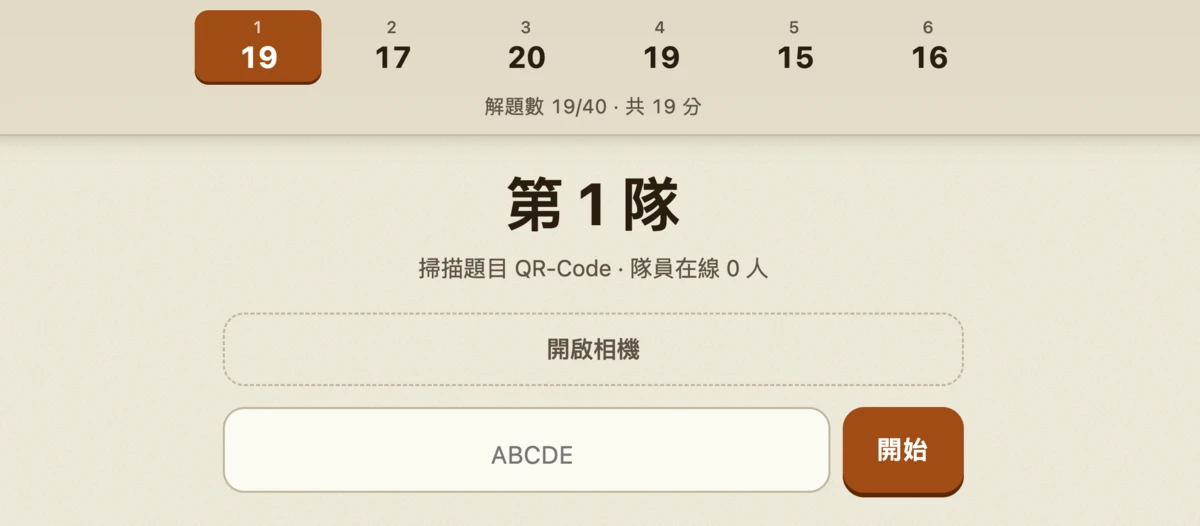
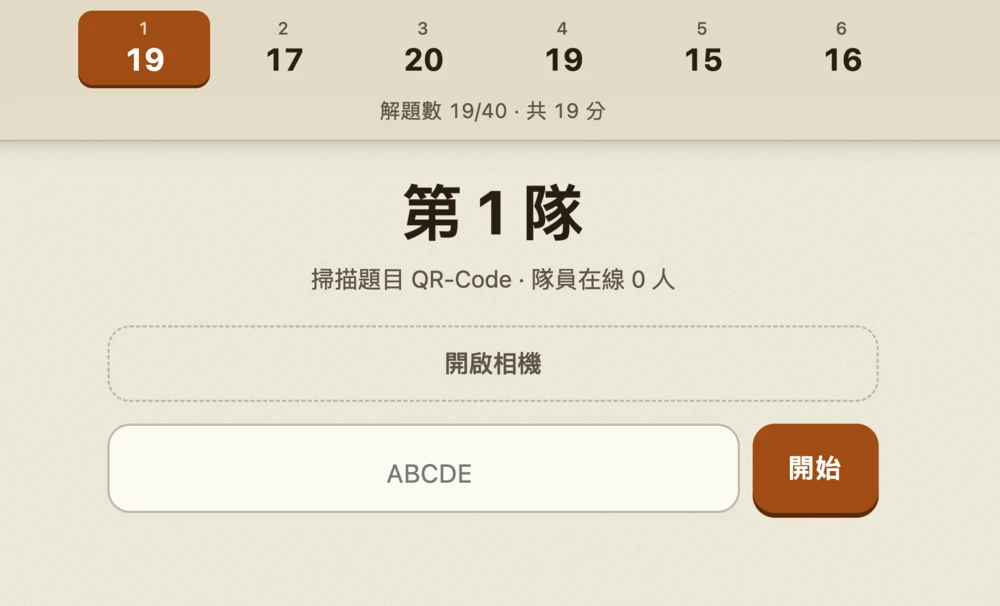
docs: tighten the README and mirror it in English
- adopt the shortened Chinese README
- recrop the hero screenshot, dropping the empty space below the form
- fix the swapped frontend/backend labels in the test section
- promote the game reset back to a top-level section

diff --git a/README-en.md b/README-en.md
@@ -16,28 +16,17 @@
 
 ## Overview
 
-Front and back end for the NTUST campus treasure hunt. Questions are printed as QR codes
-and taped around campus. Each team has one leader; members vote on their own phones and
-the leader decides what gets submitted.
-
-```
-Leader scans a question QR ─▶ the question appears on every phone in the team
-                              members pick a choice (changeable, last one counts)
-                              only the leader sees the tally and the voter count
-Leader hits submit         ─▶ the top choice is submitted, tally and answer go public
-Leader hits next           ─▶ the whole team goes back to waiting
-```
+Front and back end for the NTUST CSIE campus treasure hunt. Find the QR codes hidden around campus and solve the puzzles together with your leader and teammates
 
 ### Rules
 
-- The leader can discard a question at any time: all votes are thrown away, nothing is recorded
-- On a tie, submit is locked until the leader picks one. With zero votes it stays locked too
-- One submission per team per question. Rescanning an answered question shows a read-only result
-- The leader does not vote
+- The leader is a neutral referee: they scan questions, can end a round, and on a tie talk it through with the members to reach a final consensus
+- One submission per team per question
+- Only members can vote
 
 <br/>
 
-## Getting started
+## Getting Started
 
 ### Requirements
 
@@ -45,7 +34,7 @@ Leader hits next           ─▶ the whole team goes back to waiting
 - [uv](https://docs.astral.sh/uv/)
 - Node (only for the frontend tests)
 
-### Run it
+### Run It
 
 ```bash
 git clone https://github.com/xinshoutw/campus-treasure.git
@@ -55,19 +44,9 @@ uv sync
 uv run main.py
 ```
 
-Startup does three things, and refuses to start if any of them fails, so a broken question
-set never makes it to the event:
-
-1. Validates `.env` (6 leader keys, 6 member keys, all 12 distinct)
-2. Validates `questions.yaml` (id format and uniqueness, `answer` must be one of `choices`, 2-10 choices, positive `points`, no misspelled keys)
-3. Downloads every remote `image` into `static/cache/`, so the frontend only ever loads local files
-
-nginx reverse-proxies to `HOST:PORT` (`192.168.10.101:20001` by default). TLS is your job.
-
-> [!IMPORTANT]
-> **The camera only works over HTTPS or on localhost.** Hitting
-> `http://192.168.10.101:20001` straight from a phone gets you no camera. Everyone has to
-> go through your `https://treasure.ntust.org`.
+1. Validates `.env` (token uniqueness)
+2. Validates `questions.yaml` (id format and uniqueness, `answer` must be one of `choices`, 2-10 choices, positive `points`, correct field names)
+3. Caches the remote images in `image` into `static/cache/`
 
 <br/>
 
@@ -75,21 +54,21 @@ nginx reverse-proxies to `HOST:PORT` (`192.168.10.101:20001` by default). TLS is
 
 `.env`:
 
-| Key | What it does |
+| Key | Description |
 |---|---|
-| `MEMBER_KEY` | **Member** tokens, `;` separated. **Position is the team number** (formerly `TEAM_KEY`) |
-| `LEADER_KEY` | **Leader** tokens, same order, same count |
-| `RANDOM_CHOICES` | Shuffle the choice order when a question opens |
-| `SHOW_SCORES_IN_MENU` | Show the per-team score bar at the top |
-| `RESET_TOKEN` | Token for wiping the event. **Leave it empty and `/reset` is disabled entirely** |
+| `MEMBER_KEY` | **Member** tokens, `;` separated, same count as `LEADER_KEY` |
+| `LEADER_KEY` | **Leader** tokens, `;` separated, same count as `MEMBER_KEY` |
+| `RANDOM_CHOICES` | Whether to randomize choice order |
+| `SHOW_SCORES_IN_MENU` | Whether to show every team's score publicly |
+| `RESET_TOKEN` | Resets the game. **Leave empty to disable** |
 | `HOST` / `PORT` | Listen address |
-| `SITE_URL` | Base URL `make_qr.py` bakes into the login QR codes |
+| `SITE_URL` | Domain `make_qr.py` uses for the login QR codes |
 
 The `questions.yaml` fields are documented at the top of that file.
 
 <br/>
 
-## Generating QR codes
+## Generating QR Codes
 
 ```bash
 uv run make_qr.py          # one PNG per QR
@@ -102,20 +81,8 @@ Output lands in `qr/`:
 |---|---|---|
 | `leader_1.png` … `leader_6.png` | **Leader** login | `LEADER n` |
 | `member_1.png` … `member_6.png` | **Member** login | `TEAM n` |
-| `ABCDE.png` … | Questions, encoding the five-letter code; only leaders can scan them | the code itself |
-| `qrcodes.pdf` | `--pdf` output. The QR codes are vector, so printing large stays crisp | — |
-
-> [!WARNING]
-> **Do not let the leader stack get mixed into the member stack.** Whoever holds a leader QR
-> can submit on behalf of the whole team. Leader tokens are not device-limited, which is
-> deliberate: when the leader's phone dies, a deputy scans the same sheet and takes over.
-
-Always use `segno.make_qr()`, **never `segno.make()`**. Given payloads as short as five
-characters the latter picks a Micro QR (`M2-M`, a single finder pattern), and jsQR does not
-support Micro QR, so the printed code is completely unscannable.
-
-Labels on the PDF are deliberately ASCII-only (`TEAM 1`, `ABCDE`) so no CJK font has to be
-embedded. For which sticker belongs to which question, read the mapping the script prints.
+| `ABCDE.png` … | Hunt questions, five-letter code | ABCDE |
+| `qrcodes.pdf` | `--pdf` output, vector | — |
 
 <br/>
 
@@ -123,18 +90,8 @@ embedded. For which sticker belongs to which question, read the mapping the scri
 
 ```bash
 uv run test_main.py    # backend
-node test_web.cjs      # frontend (boots its own server)
+node test_web.cjs      # frontend
 ```
-
-Neither uses a test framework, just `assert`, and neither touches `.env` or the real
-`data.json`.
-
-- `test_main.py` — question validation, roles and permissions, voting and re-voting, ties
-  and zero votes, discarding, rescanning an answered question, two leaders submitting at
-  once, online-count timeout, `/reset` backup
-- `test_web.cjs` — the real `static/app.js` running inside a minimal DOM stub in Node,
-  against a server that actually boots. Each simulated phone is its own vm context, so
-  "one leader plus three members" really is four clients talking to each other
 
 <br/>
 
@@ -143,9 +100,9 @@ Neither uses a test framework, just `assert`, and neither touches `.env` or the 
 | Piece | Choice |
 |---|---|
 | Backend | Flask 3 and waitress, single process, 8 threads |
-| Frontend | Plain JS. No framework, no build step |
-| State | Open rounds live in memory; submitted answers go to `data.json` |
-| QR decoding | Vendored jsQR, no CDN |
+| Frontend | Plain JS |
+| State | Open rounds in memory; submitted results in `data.json` |
+| QR decoding | vendored jsQR |
 | QR generation | segno and fpdf2 |
 | Packaging | uv |
 
@@ -156,7 +113,7 @@ main.py                config and question validation, state machine, API, data.
 make_qr.py             login and question QR codes (PNG or A4 PDF)
 questions.yaml         question bank, fields documented at the top
 templates/index.html   single page, all four screens toggled with hidden
-static/app.js          the whole frontend: login, camera, polling, voting, submitting
+static/app.js          frontend: login, camera, polling, voting, submitting
 static/style.css       design tokens and layout
 static/jsQR.js         vendored QR decoder, minified
 static/cache/          question images downloaded at startup (gitignored)
@@ -168,85 +125,13 @@ data.json              answer log, created at runtime (gitignored)
 
 <br/>
 
-## Design notes
-
-- Single process (waitress, 8 threads). **Do not run multiple workers**: the in-memory state
-  splits and scores overwrite each other. Starting without going through `main.py`'s
-  `__main__` (say, `gunicorn main:app`) makes every request return 503 rather than quietly
-  flushing empty state over `data.json`.
-- The frontend polls `/api/state` every **300ms**; the server decides everything on screen.
-  No SSE or WebSocket: each long-lived connection pins a waitress thread, and 40 devices is
-  far past 8. Measured (6 teams x 12 questions all answered, score bar on, choice shuffling
-  on): 42 devices at 42 req/s gave p50 1.2ms / p99 37ms, 96 devices at 95 req/s gave p50
-  1.6ms. What 300ms costs is member mobile data, roughly 3MB per device per hour
-  (272 B per gzipped response).
-- **Do not turn on the Cloudflare proxy.** Measured, it moves time-to-first-byte from 17ms
-  to 1.2s, and every single poll of the event pays that. Hitting the origin directly, nginx
-  terminates TLS itself.
-- The submit check and the write happen inside one `threading.Lock`, so when two leader
-  phones hit submit together only the first one counts.
-- Choice order is shuffled **once when the round opens** and then fixed (`RANDOM_CHOICES`).
-  Reshuffling on every poll would rearrange the choices under the user's finger every second.
-- Anyone who has voted counts as present. Voting and then locking the phone is normal, and a
-  locked phone stops polling, so going by heartbeats alone the leader sees "3 voted, 0 online".
-- The leader's camera is on only while waiting for a question and shuts off once the round
-  opens, giving the screen over to the tally. For members it is off permanently after login.
-- QR decoding uses the vendored `static/jsQR.js`, so every device takes the same path. It is
-  minified (58KB to 46KB gzipped). To change versions or patch it, get the original source
-  back and re-run:
-
-  ```bash
-  bun build static/jsQR.js --no-bundle --minify --outfile=tmp.js && mv tmp.js static/jsQR.js
-  ```
-
-  `--no-bundle` is required: without it the bundler eats the UMD wrapper and `window.jsQR`
-  disappears.
-
-<br/>
-
-## During the event
-
-- **Changing questions**: edit `questions.yaml` and restart. Login state lives in the
-  browser's localStorage, so a restart logs nobody out.
-- **A restart interrupts open rounds**: unsubmitted votes only exist in memory, so after a
-  restart the team is back at "waiting for a question" and the leader rescans to continue.
-  Submitted answers and scores survive intact. So pick a moment when no team is mid-vote.
-- **Scores** are computed from the answer log in `data.json` on the fly with no cache, so
-  editing `points` shows up immediately for every team.
-- **Backups**: every answer rewrites `data.json` in full, then fsync, then atomic rename.
-  Copying the file gives you a complete snapshot.
-
-### Wiping the event
+## Resetting The Game
 
 ```bash
 curl -X POST https://treasure.ntust.org/reset -H "X-Reset-Token: $RESET_TOKEN"
 ```
 
-Clears every team's score and answer log. **Before clearing, `data.json` is renamed to
-`data.<timestamp>.json`**, so a misfire is recoverable: rename the backup back to
-`data.json` and restart.
-
-- `POST` only. `GET` returns 405, which keeps browser prefetch, chat-app link previews and
-  crawlers from tripping it
-- With no `RESET_TOKEN` set it returns 404; the endpoint simply does not exist
-- If `RESET_TOKEN` matches any team's token, startup refuses to run
-
-<br/>
-
-## Pre-event manual checklist
-
-Run this on a real phone against the real HTTPS address:
-
-- [ ] iPhone Safari: scan the login QR, get in
-- [ ] Android Chrome: scan the login QR, get in
-- [ ] Scan the login QR with the built-in camera app (opens the browser with `?token=`): get in, and the token is stripped from the address bar
-- [ ] Cycle "switch camera" to find the lens that focuses up close; it stays selected after a reload
-- [ ] Scan a question QR, answer correctly, score goes up, the top bar updates
-- [ ] Answer wrong, the correct answer is shown, 0 points
-- [ ] Rescan the same question: "a teammate already answered this", score unchanged
-- [ ] Two phones on the same team submit different answers at once: only one counts
-- [ ] Deny camera permission: typing the five-letter code by hand still works
-- [ ] Look at the screen outdoors at noon and confirm it is readable
+Backs `data.json` up in the same directory, then clears every team's score and answer log
 
 <br/>
 
@@ -254,13 +139,10 @@ Run this on a real phone against the real HTTPS address:
 
 Before opening a PR:
 
-1. `uv run test_main.py` and `node test_web.cjs` both pass
+1. `uv run test_main.py` and `node test_web.cjs` pass
 2. Commits follow [Conventional Commits](https://www.conventionalcommits.org/)
 3. Branches named `feat/your-feature` or `fix/your-fix`
 4. No emoji
-
-Dependency updates arrive as one Dependabot PR every Monday, see
-[`.github/dependabot.yml`](.github/dependabot.yml).
 
 <br/>
 
